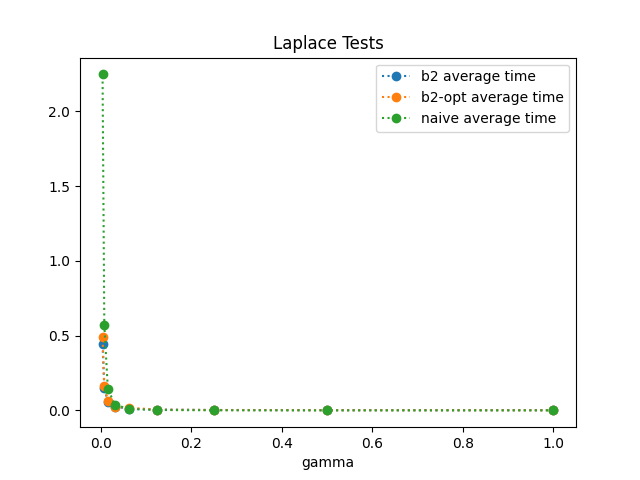
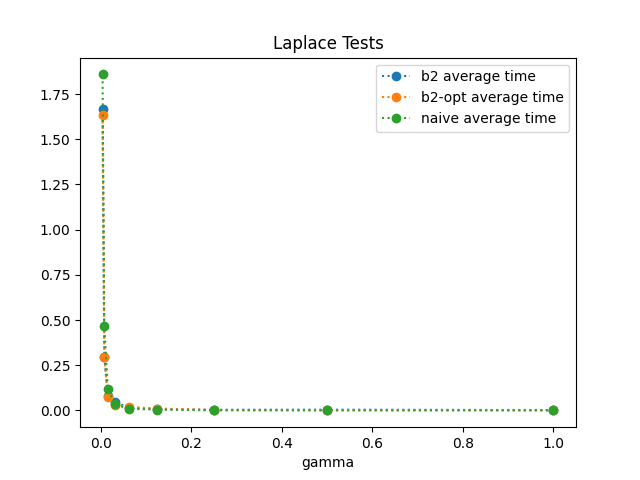
update timing tests and figures

diff --git a/timing_tests.py b/timing_tests.py
@@ -23,7 +23,7 @@ def utility_range_benchmark(n, optimize):
   util = lambda x: x
 
 
-  e = ExpMech(rng,eta_x,eta_y,eta_z,u_max,u_min,max_O,min_sampling_precision=8)
+  e = ExpMech(rng,eta_x,eta_y,eta_z,u_max,u_min,max_O,min_sampling_precision=8,empirical_precision=False)
   e.set_utility(util)
   prec = e.context.precision
   end_setup_time = timer()
@@ -60,7 +60,7 @@ def outcomespace_benchmark(n, optimize):
   util = lambda x: x
 
 
-  e = ExpMech(rng,eta_x,eta_y,eta_z,u_max,u_min,max_O,min_sampling_precision=8)
+  e = ExpMech(rng,eta_x,eta_y,eta_z,u_max,u_min,max_O,min_sampling_precision=8,empirical_precision=False)
   e.set_utility(util)
   prec = e.context.precision
   end_setup_time = timer()
@@ -123,7 +123,41 @@ def laplace_benchmark(gamma, optimize):
   rng = lambda : np.random.randint(0,2) 
   eps = 2*np.log(2)*(-np.log2((eta_x/(2**eta_y))))
 
-  l = LaplaceMech(rng, 0.0, 1.0, eta_x,eta_y,eta_z,-10.0,10.0,gamma, min_sampling_precision=8)
+  l = LaplaceMech(rng, 0.0, 1.0, eta_x,eta_y,eta_z,-10.0,10.0,gamma, min_sampling_precision=8,empirical_precision=False)
+  end_setup_time = timer()
+  setup_time = end_setup_time - start_setup_time
+
+  # base 2 test loop
+  start_b2 = timer()
+  for i in range(0, num_trials):
+    l.run_mechanism(optimize)
+  end_b2 = timer()
+  b2_avg = (end_b2 - start_b2)/num_trials
+
+  # naive test loop
+  start_naive = timer()
+  O = []
+  util = lambda x: abs(x)
+  while i*gamma - 10.0 <= 10.0:
+      O.append(i*gamma - 10)
+      i+= 1
+  for i in range(0,num_trials):
+    naive_exp_mech(eps,util,O)
+  end_naive = timer()
+  naive_avg = (end_naive - start_naive)/num_trials
+  return setup_time, b2_avg, b2_avg + setup_time, naive_avg
+
+def laplace_precision_benchmark(gamma, precision):
+  num_trials = 10
+  start_setup_time = timer()  
+  optimize = False  
+  eta_x = 1
+  eta_y = 1
+  eta_z = 1
+  rng = lambda : np.random.randint(0,2) 
+  eps = 2*np.log(2)*(-np.log2((eta_x/(2**eta_y))))
+
+  l = LaplaceMech(rng, 0.0, 1.0, eta_x,eta_y,eta_z,-10.0,10.0,gamma, min_sampling_precision=8,empirical_precision=precision)
   end_setup_time = timer()
   setup_time = end_setup_time - start_setup_time
 
@@ -174,6 +208,30 @@ def run_timing_tests():
   print("Naive,", ','.join(map(str,[results[i][3] for i in range(0, len(results))])))
   print("Not Optimized,", ','.join(map(str,[results[i][2] for i in range(0, len(results))])))
   print("Optimized,", ','.join(map(str,[opt_results[i][2] for i in range(0, len(opt_results))])))
+
+
+# Laplace Precision tests
+  sizes = [1.0,0.5, 0.25, 0.125, 0.0625, 0.03125, 0.015625, 0.0078125, 0.00390625]
+  results = []
+  opt_results = []
+  for s in sizes:
+    results.append(laplace_precision_benchmark(s, False))    # Theoretical
+    opt_results.append(laplace_precision_benchmark(s, True)) # Empirical
+    
+  plt.plot(sizes,[results[i][2] for i in range(0, len(results))],marker='o',linestyle=':',label='theoretical')
+  plt.plot(sizes,[opt_results[i][2] for i in range(0, len(opt_results))],marker='o',linestyle=':',label='empirical')
+  plt.plot(sizes,[results[i][3] for i in range(0, len(results))],marker='o',linestyle=':',label='naive average time')
+  plt.legend()
+  plt.title("Laplace Tests")
+  plt.xlabel("gamma")
+  plt.savefig('laplace_precision.png')
+  plt.close()
+  # Output results
+  print("Laplace Precision Type Tests")
+  print("Gamma,", ','.join(map(str,sizes)))
+  #print("Naive,", ','.join(map(str,[results[i][3] for i in range(0, len(results))])))
+  print("Theoretical,", ','.join(map(str,[results[i][2] for i in range(0, len(results))])))
+  print("Empirical,", ','.join(map(str,[opt_results[i][2] for i in range(0, len(opt_results))])))
 
 
   # Precision type tests

diff --git a/expmech.py b/expmech.py
@@ -119,7 +119,7 @@ class ExpMech:
       bx = math.ceil(math.log2(eta_x))
       if bx < 1:
         bx = 1
-      p = (abs(u_max) + abs(u_min))*(eta_z * (eta_y + bx)) + max_O
+      p = (max(1,abs(u_max)) + max(1,abs(u_min)))*(eta_z * (eta_y + bx)) + max_O
       if p >= gmpy2.get_max_precision():
           raise RuntimeError('Failed to set precision: maximum precision exceeded.')
       ctx.precision = p
@@ -274,7 +274,7 @@ class LaplaceMech(ExpMech):
       Samples from the outcome space [b_min,b_max] at granularity gamma. """
   def __init__(self, rng, x, sensitivity, eta_x = 1, eta_y = 0, eta_z = 1, \
                      b_min = -10, b_max = 10, gamma = 2**(-4), \
-                     min_sampling_precision = 10):
+                     min_sampling_precision = 10, empirical_precision=True):
     """ Initializes the LaplaceMech including computing the required precision.
 
         Args:
@@ -288,7 +288,7 @@ class LaplaceMech(ExpMech):
         b_max (float or int): the upper bound of the output range;
         gamma (float): the discretization granularity
         min_sampling_precision (int): the minimum precision at which to sample for randomized rounding
-
+        empirical_precision (bool): whether to use the empirical precision
       """
     # compute outcome space
     O = []
@@ -312,7 +312,7 @@ class LaplaceMech(ExpMech):
 
     # initialize the base class
     max_O = len(self.Outcomes)+1
-    ExpMech.__init__(self,rng,eta_x,eta_y,eta_z,max_u,min_u,max_O,min_sampling_precision)
+    ExpMech.__init__(self,rng,eta_x,eta_y,eta_z,max_u,min_u,max_O,min_sampling_precision,empirical_precision)
     self.set_utility(u)
 
   def run_mechanism(self, optimized_sample = False):

diff --git a/README.md b/README.md
@@ -1,7 +1,7 @@
 # Implementing the Exponential Mechanism with Base-2 DP
 Author: Christina Ilvento
 
-[*Full Paper Draft*](https://drive.google.com/file/d/1EQgyDFwoQaT0JwHEDLixWkwRxHd_QA_h/view?usp=sharing)
+[*Paper*](https://arxiv.org/abs/1912.04222)
 ## *Code and supplemental materials.*
 
 **Abstract**
@@ -14,7 +14,7 @@ How do we achieve this result? We employ a simple trick of switching from base *
 
 
 ### Supplemental Materials
-* Demo and project overview: `demo.ipynb`
+* Demo and project overview: [`demo.ipynb`](./demo.ipynb)
 * Figures: `figures`
 
 ### Code
